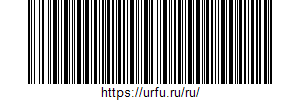
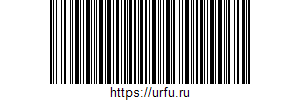
Add better barcode generation, better prepared barcode

diff --git a/Math.Labs/QrBarcode/QrBarcodeController.cs b/Math.Labs/QrBarcode/QrBarcodeController.cs
@@ -36,7 +36,8 @@ public class QrBarcodeController : ControllerBase
     private static readonly Code128EncodingOptions _code128EncodingOptions = new()
     {
         Width = 300,
-        Height = 100
+        Height = 100,
+        Margin = 20
     };
 
 #pragma warning disable CA1416
